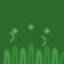
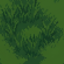
feat: 磁磚替換為像素風 PNG — 第一張地圖範例風格
7 張磁磚從 SVG 替換為 AI 生成像素風 PNG（64×64）：
grass, wall, tall_grass, water, exit, path, flower
載入方式從 load.svg → load.image

後續可為每張地圖製作不同風格磁磚組

diff --git a/src/scenes/BootScene.ts b/src/scenes/BootScene.ts
@@ -20,10 +20,10 @@ export class BootScene extends Phaser.Scene {
       fill.width = 296 * p;
     });
 
-    // 載入磁磚 (SVG，渲染更清晰)
+    // 載入磁磚 (PNG 像素風)
     const tileNames = ['grass', 'wall', 'tall_grass', 'water', 'exit', 'path', 'flower'];
     for (const t of tileNames) {
-      this.load.svg(`tile_${t}`, `assets/tiles/${t}.svg`, { width: 64, height: 64 });
+      this.load.image(`tile_${t}`, `assets/tiles/${t}.png`);
     }
 
     // 載入靈獸
